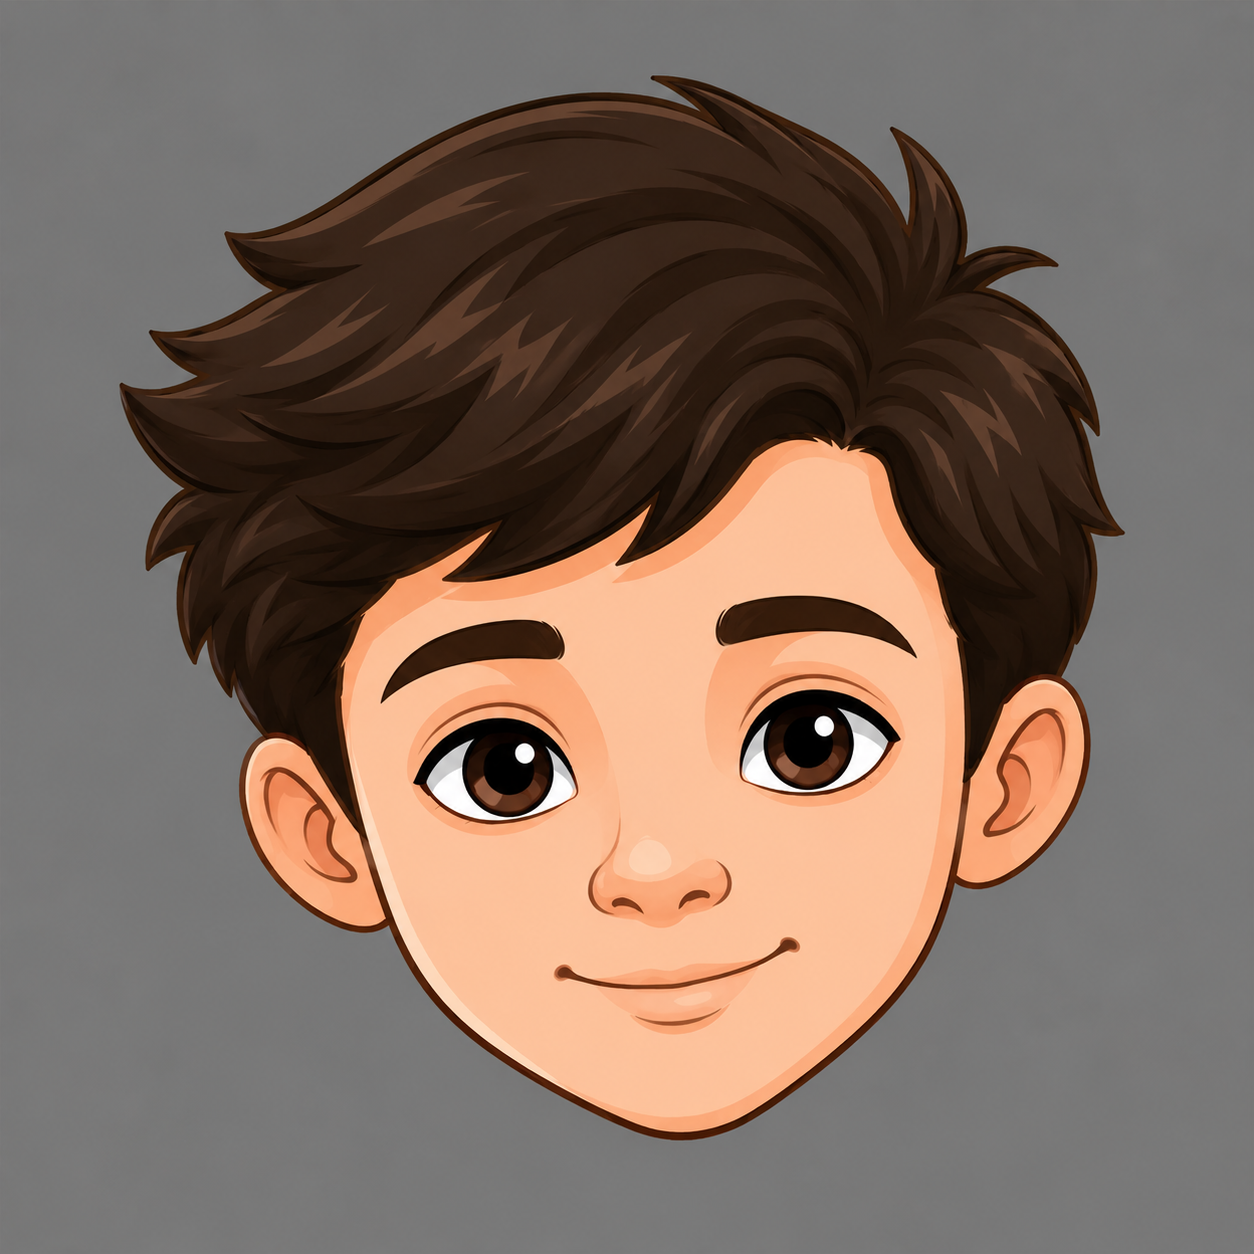
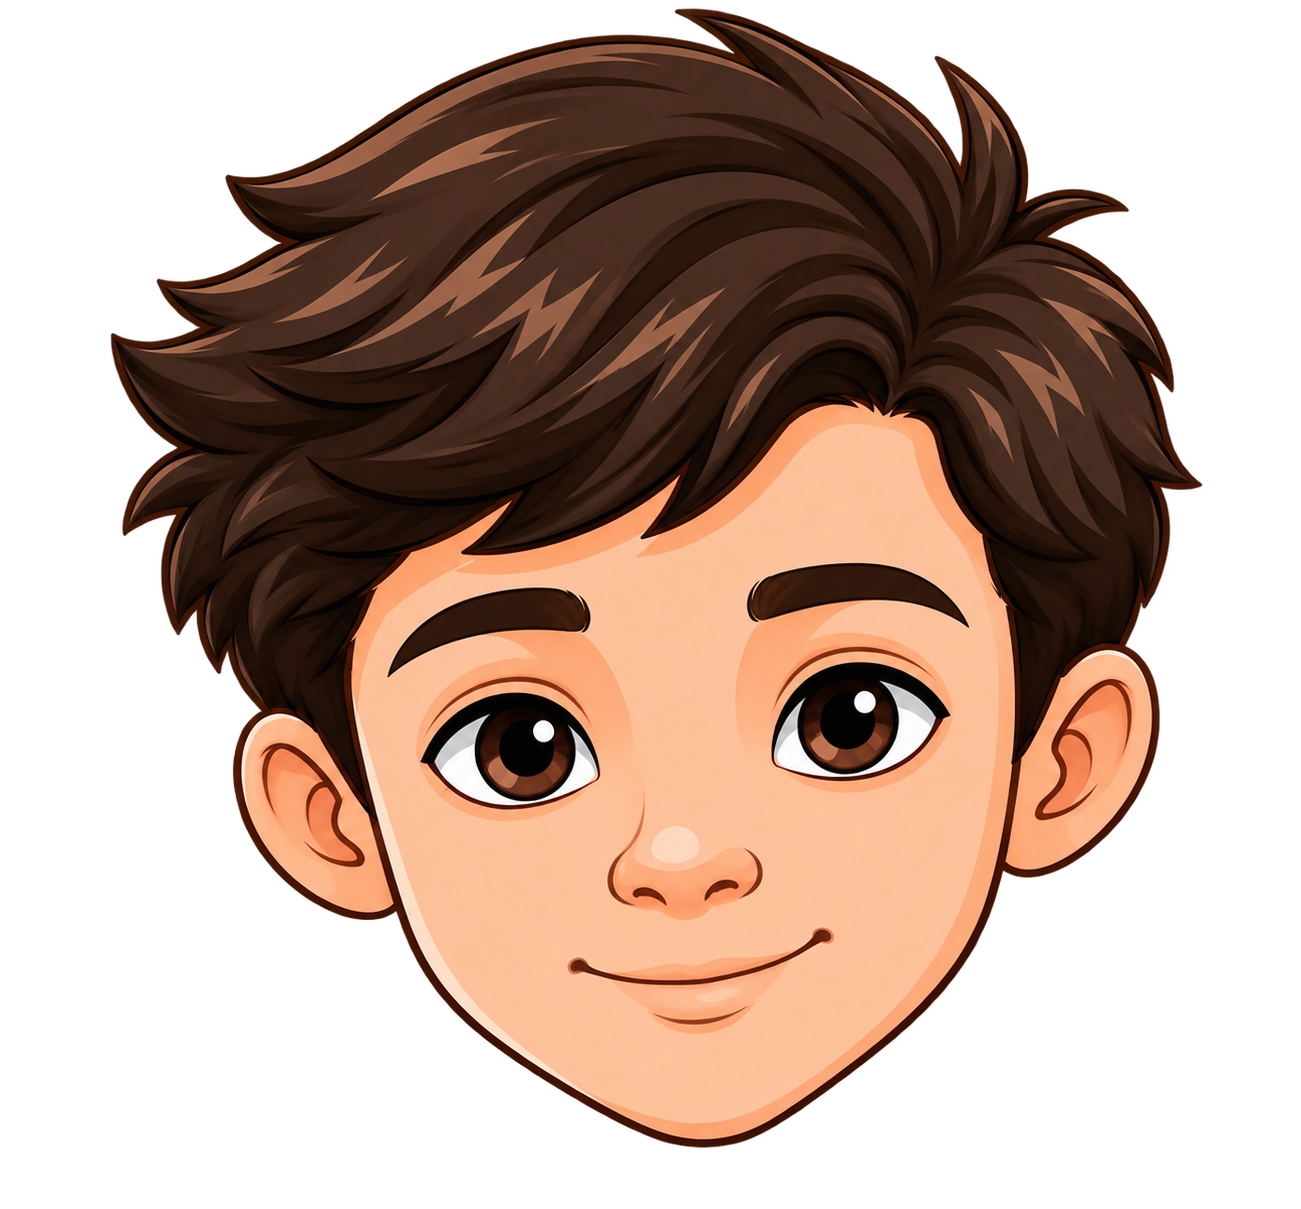
updated center screen background and removed redundant color variable

diff --git a/multi_stim/multi_stim_experiment_common.py b/multi_stim/multi_stim_experiment_common.py
@@ -45,7 +45,21 @@ Trial sequence (timings):
 
 import os
 import csv
+import ctypes
 from datetime import datetime
+
+# -- Make this process DPI-aware BEFORE any window is created -----------------
+# Without this, Windows display scaling (e.g. 125%/150% on a laptop) reports a
+# smaller virtual resolution to the process than the panel's real pixel size,
+# so the hardcoded SCREEN_W/SCREEN_H below no longer matches the window
+# PsychoPy actually creates, and stimuli render far larger than intended.
+try:
+    ctypes.windll.shcore.SetProcessDpiAwareness(2)  # per-monitor DPI aware
+except (AttributeError, OSError):
+    try:
+        ctypes.windll.user32.SetProcessDPIAware()
+    except (AttributeError, OSError):
+        pass
 
 # -- Set BEFORE any pygaze imports --------------------------------------------
 os.environ["DISPTYPE"] = "psychopy"
@@ -67,7 +81,6 @@ from pygaze import libtime
 SCREEN_W    = 1920
 SCREEN_H    = 1080   # change on lab computer
 FULLSCREEN  = True
-BACKGROUND  = "#000000"
 FG_COLOR    = "white"
 CUE_COLOR   = (180, 180, 180)  # light gray, rgb255
 POOL_DIR    = os.path.join(os.path.dirname(__file__), "..", "pool")

diff --git a/one_sided/one_sided_experiment_common.py b/one_sided/one_sided_experiment_common.py
@@ -38,7 +38,21 @@ Trial sequence (timings):
 
 import os
 import csv
+import ctypes
 from datetime import datetime
+
+# -- Make this process DPI-aware BEFORE any window is created -----------------
+# Without this, Windows display scaling (e.g. 125%/150% on a laptop) reports a
+# smaller virtual resolution to the process than the panel's real pixel size,
+# so the hardcoded SCREEN_W/SCREEN_H below no longer matches the window
+# PsychoPy actually creates, and stimuli render far larger than intended.
+try:
+    ctypes.windll.shcore.SetProcessDpiAwareness(2)  # per-monitor DPI aware
+except (AttributeError, OSError):
+    try:
+        ctypes.windll.user32.SetProcessDPIAware()
+    except (AttributeError, OSError):
+        pass
 
 # -- Set BEFORE any pygaze imports --------------------------------------------
 os.environ["DISPTYPE"] = "psychopy"
@@ -60,7 +74,6 @@ from pygaze import libtime
 SCREEN_W    = 1920
 SCREEN_H    = 1080   # change on lab computer
 FULLSCREEN  = True
-BACKGROUND  = "#000000"
 FG_COLOR    = "white"
 CUE_COLOR   = (180, 180, 180)  # light gray, rgb255
 POOL_DIR    = os.path.join(os.path.dirname(__file__), "..", "pool")

diff --git a/triangles/triangles_experiment_common.py b/triangles/triangles_experiment_common.py
@@ -38,7 +38,21 @@ Trial sequence (timings):
 
 import os
 import csv
+import ctypes
 from datetime import datetime
+
+# -- Make this process DPI-aware BEFORE any window is created -----------------
+# Without this, Windows display scaling (e.g. 125%/150% on a laptop) reports a
+# smaller virtual resolution to the process than the panel's real pixel size,
+# so the hardcoded SCREEN_W/SCREEN_H below no longer matches the window
+# PsychoPy actually creates, and stimuli render far larger than intended.
+try:
+    ctypes.windll.shcore.SetProcessDpiAwareness(2)  # per-monitor DPI aware
+except (AttributeError, OSError):
+    try:
+        ctypes.windll.user32.SetProcessDPIAware()
+    except (AttributeError, OSError):
+        pass
 
 # -- Set BEFORE any pygaze imports --------------------------------------------
 os.environ["DISPTYPE"] = "psychopy"
@@ -60,7 +74,6 @@ from pygaze import libtime
 SCREEN_W    = 1920
 SCREEN_H    = 1080   # change on lab computer
 FULLSCREEN  = True
-BACKGROUND  = "#000000"
 FG_COLOR    = "white"
 CUE_COLOR   = (180, 180, 180)  # light gray, rgb255
 POOL_DIR    = os.path.join(os.path.dirname(__file__), "..", "pool")

diff --git a/center_screen/center_screen_experiment_common.py b/center_screen/center_screen_experiment_common.py
@@ -76,7 +76,6 @@ from pygaze.eyetracker import EyeTracker
 SCREEN_W    = 1920
 SCREEN_H    = 1080   # change on lab computer
 FULLSCREEN  = True
-BACKGROUND  = "#000000"
 FG_COLOR    = "white"
 CUE_COLOR   = (180, 180, 180)  # light gray, rgb255
 POOL_DIR    = os.path.join(os.path.dirname(__file__), "..", "pool")
@@ -438,7 +437,7 @@ def setup_display_and_tracker(without_tracker, et_log):
     pygaze_settings.DISPSIZE   = (SCREEN_W, SCREEN_H)
     pygaze_settings.SCREENNR   = 0
     pygaze_settings.FULLSCREEN = FULLSCREEN
-    pygaze_settings.BGC        = (0, 0, 0)  # pure black
+    pygaze_settings.BGC        = (70, 70, 70)  # dark gray
 
     disp = Display()
     win  = pygaze.expdisplay  # window PyGaze created, stored on the module
